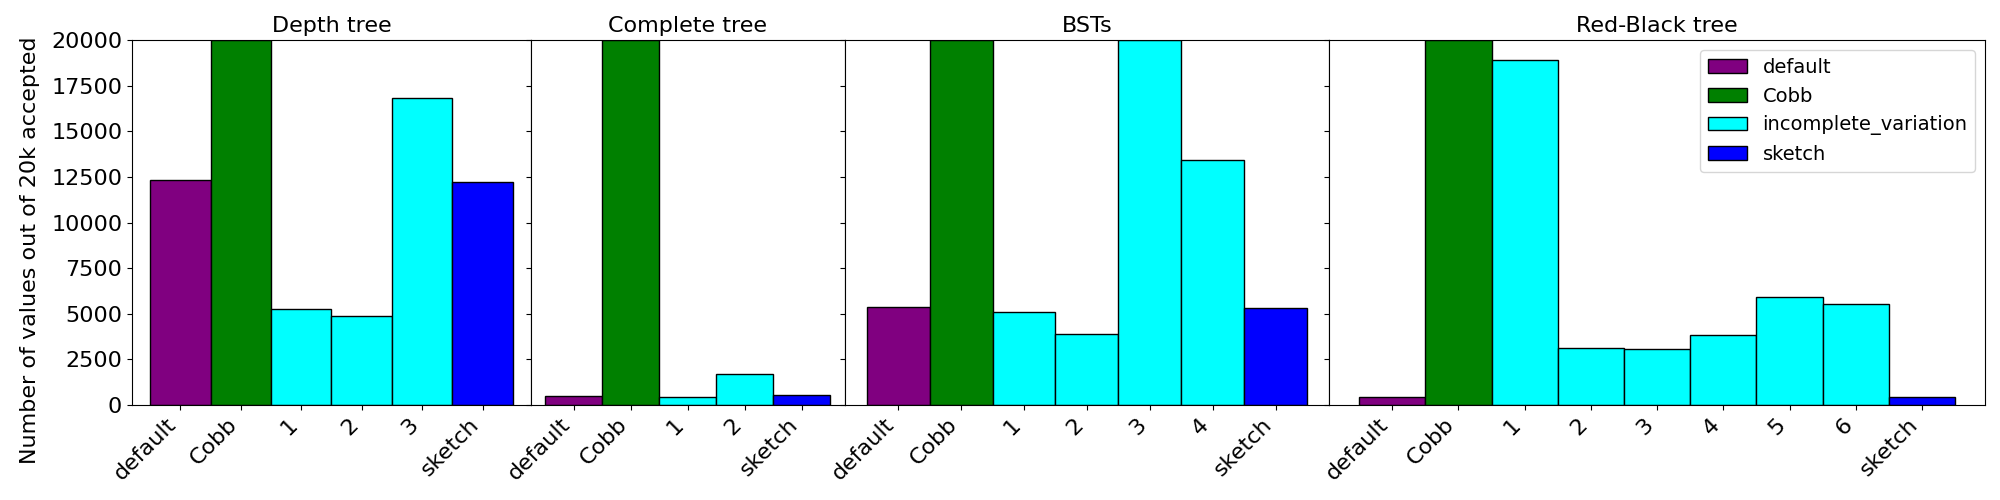
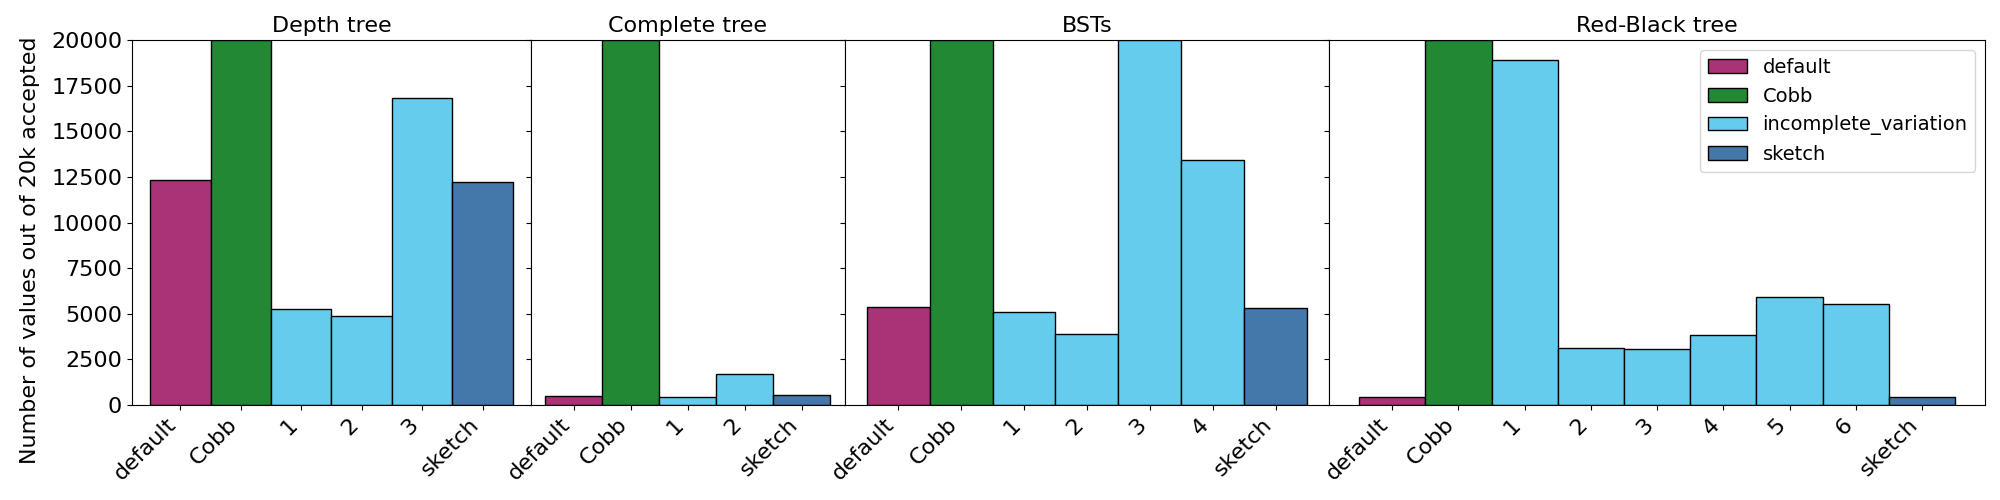
Color blind friendly

diff --git a/scripts/bar_graph.py b/scripts/bar_graph.py
@@ -10,13 +10,13 @@ import numpy as np
 
 def color_from_name(name):
     if name == "prog":
-        return "green"
+        return "#228833"  # "green"
     elif name == "default":
-        return "purple"
+        return "#AA3377"  # "purple"
     elif "sketch" in name:
-        return "blue"
+        return "#4477AA"  # "blue"
     else:
-        return "cyan"
+        return "#66CCEE"  # "cyan"
 
 
 # cli
